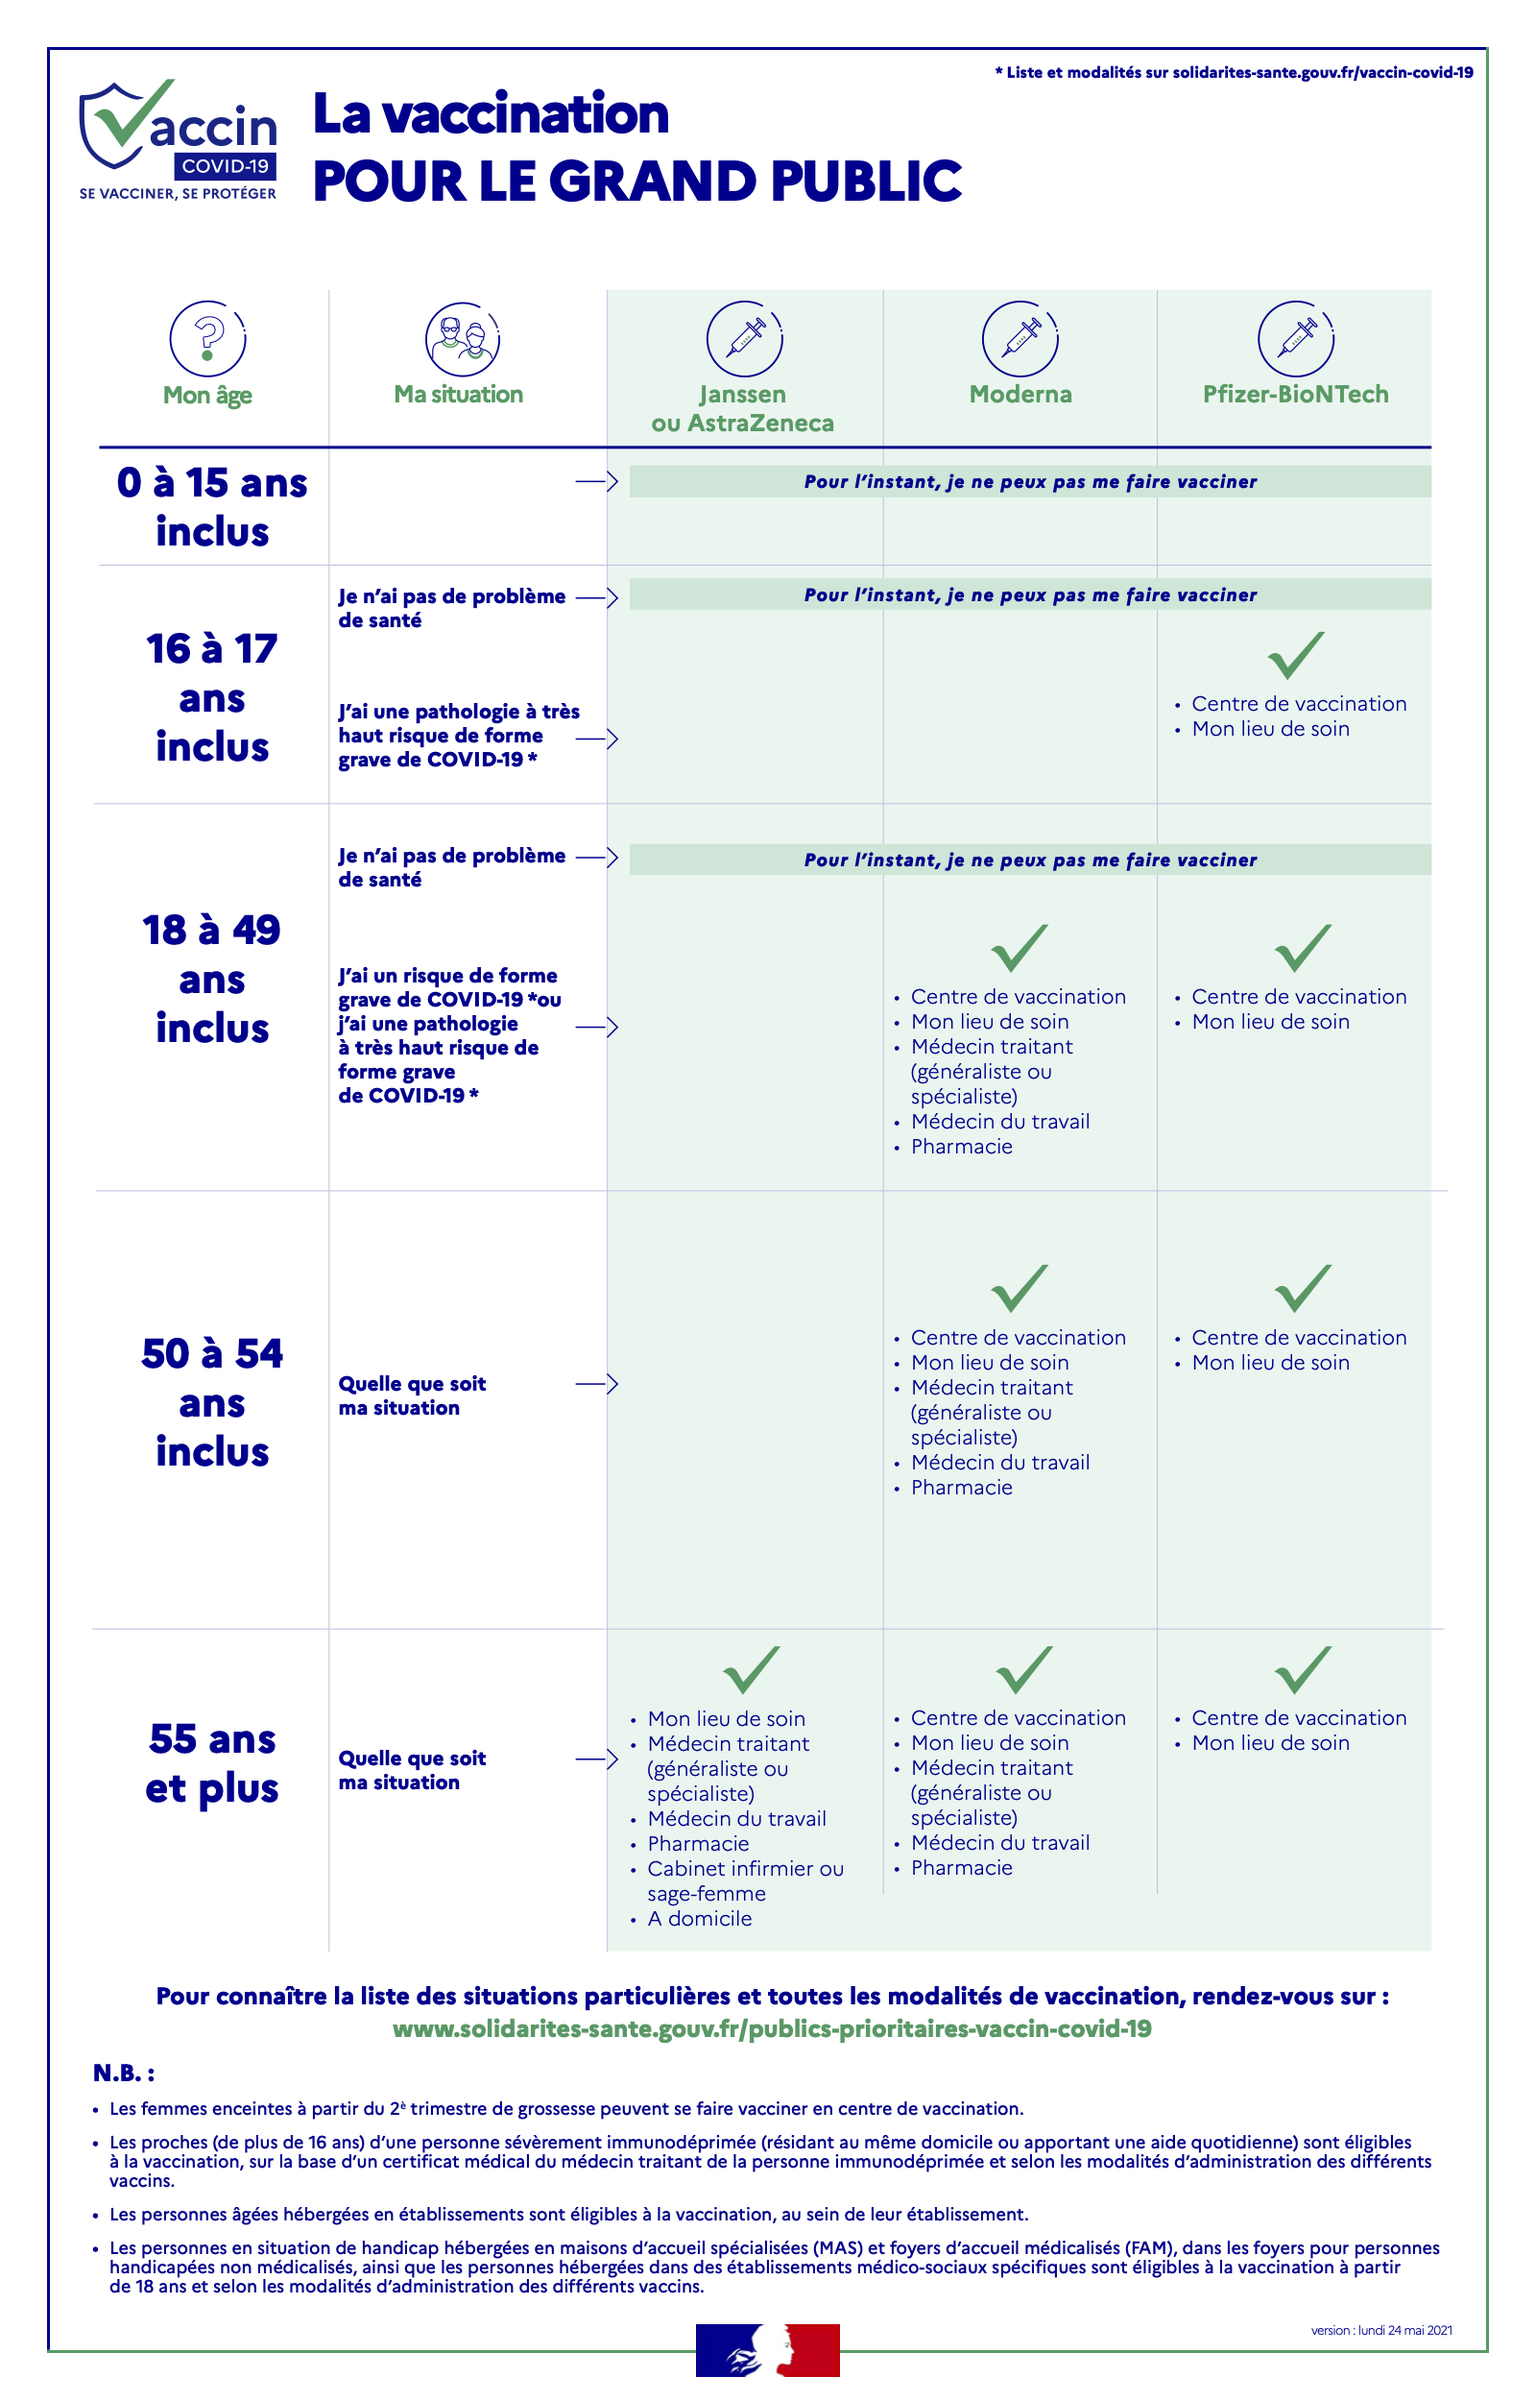
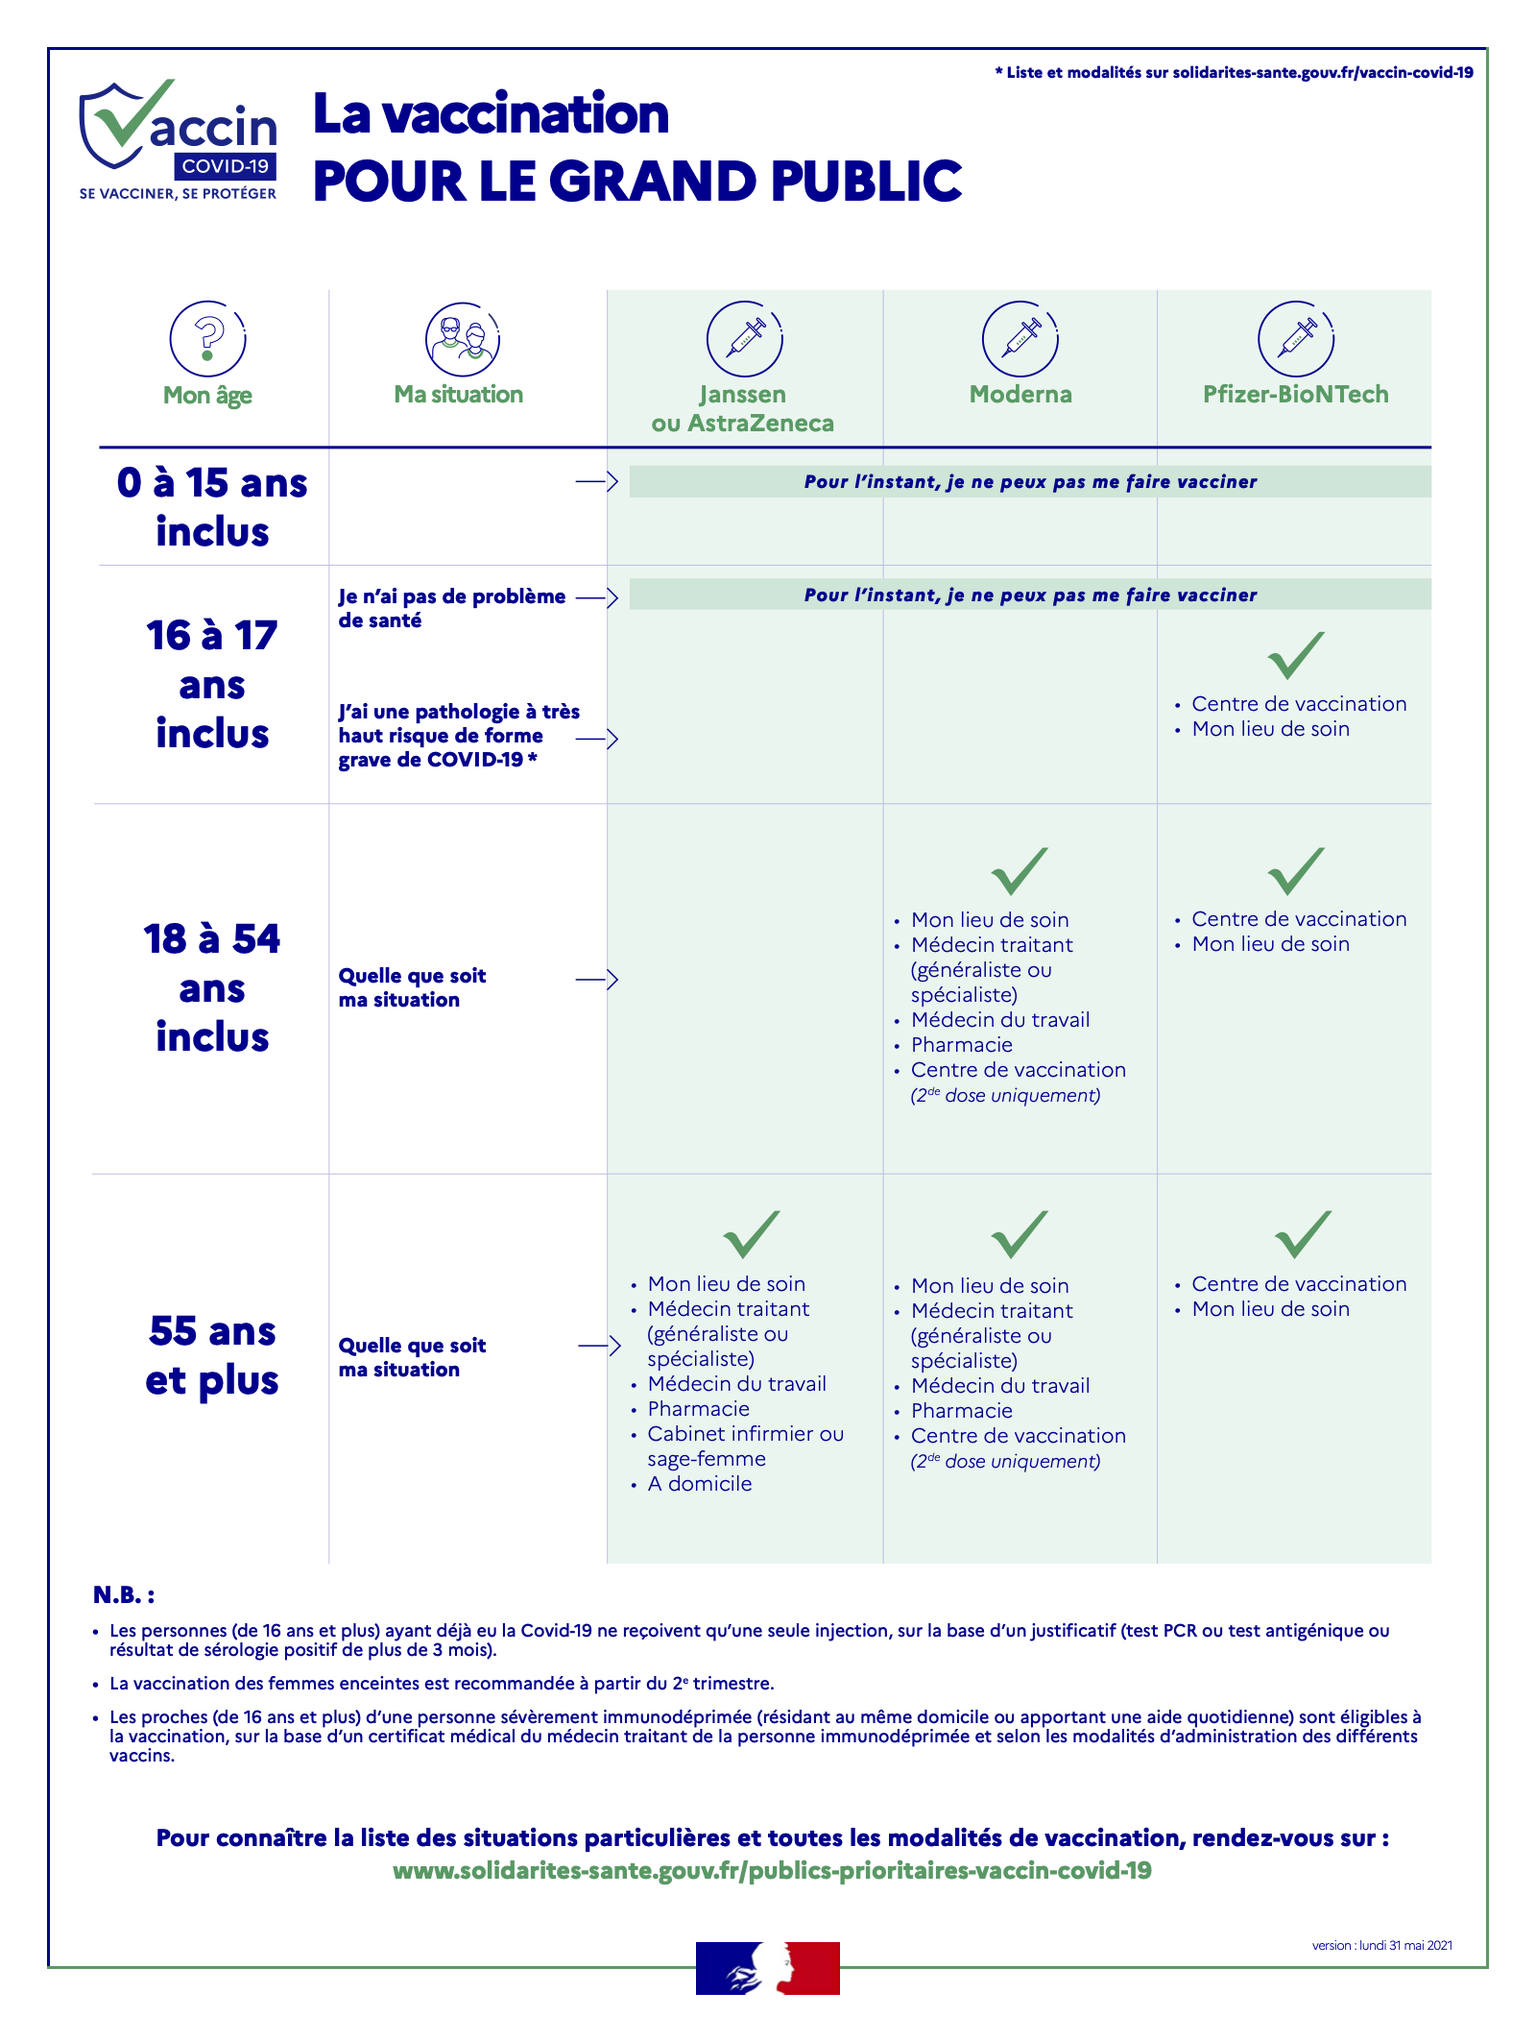
Mise à jour des conseils vaccination grand public

diff --git a/contenus/thematiques/README.md b/contenus/thematiques/README.md
@@ -214,17 +214,11 @@ Nous vous conseillons de vérifier directement auprès des autorités du pays de
 <div itemscope itemprop="acceptedAnswer" itemtype="https://schema.org/Answer">
 <div itemprop="text">
 
-Vous pouvez vous faire vacciner <mark>dès maintenant</mark> :
-   * si vous avez **50 ans ou plus** ;
-   * si vous avez **18 ans ou plus** et que vous êtes **en surcharge pondérale** (IMC > 30), ou que vous avez [un risque](https://solidarites-sante.gouv.fr/grands-dossiers/vaccin-covid-19/publics-prioritaires-vaccin-covid-19#liste-comor) de développer une **forme grave** de Covid (diabète, cancer, etc.) ;
-   * si vous avez **16 ou 17 ans** et que vous avez un risque de développer une **forme très grave** de Covid (cancer, dialyse, trisomie 21, etc.) ;
-   * si vous êtes au **second trimestre** de votre grossesse ;
-   * si vous vivez auprès d’une personne **sévèrement immunodéprimée**.
+Vous pouvez vous faire vacciner **dès maintenant** :
 
-Sinon, si vous avez **18 ans ou plus**, et que vous n’avez **pas de risque de forme grave** :
-
-  * vous pourrez vous faire vacciner <mark>à partir du **31 mai**</mark> ;
-  * vous pouvez aussi prendre rendez-vous **de la veille pour le lendemain**, lorsqu’il reste des <mark>créneaux de **dernière minute**</mark>, mais vous ne serez pas prioritaire.
+* si vous avez **18 ans et plus**, sans conditions ;
+* si vous avez entre **16 et 17 ans** et présentez un risque de développer une **forme très grave** de Covid (cancer, dialyse, trisomie 21, etc.) ;
+* si vous êtes au **second trimestre** de votre grossesse.
 
 </div>
 </div>

diff --git a/contenus/conseils/README.md b/contenus/conseils/README.md
@@ -947,17 +947,11 @@ Trouvez les <a href="#conseils-vaccins" class="lien-vaccination">lieux de vaccin
 
 #### Quand se faire vacciner ?
 
-Le déploiement de la vaccination se fait en plusieurs phases :
+Vous pouvez vous faire vacciner **dès maintenant** :
 
-* <mark>dès maintenant</mark> :
-   * les personnes de **50 ans et plus** ;
-   * les personnes de **18 ans et plus** qui sont **en surcharge pondérale** (IMC > 30), ou qui ont [un risque](https://solidarites-sante.gouv.fr/grands-dossiers/vaccin-covid-19/publics-prioritaires-vaccin-covid-19#liste-comor) de développer une **forme grave** de Covid (diabète, cancer, etc.) ;
-   * les personnes de **16 et 17 ans** présentant un risque de développer une **forme très grave** de Covid (cancer, dialyse, trisomie 21, etc.) ;
-   * les personnes au **second trimestre** de leur grossesse ;
-   * les personnes qui vivent auprès d’une personne **sévèrement immunodéprimée.
-* <mark>à partir du **31 mai**</mark> : toutes les personnes de **18 ans et plus**.
-
-<span class="nouveau">nouveau</span> <mark>Créneaux de **dernière minute**</mark> : les personnes de 18 ans et plus, ne présentant pas de risque de forme grave, peuvent prendre rendez-vous **de la veille pour le lendemain**. Ils ne sont pas prioritaires.
+* si vous avez **18 ans et plus**, sans conditions ;
+* si vous avez entre **16 et 17 ans** et présentez un risque de développer une **forme très grave** de Covid (cancer, dialyse, trisomie 21, etc.) ;
+* si vous êtes au **second trimestre** de votre grossesse.
 
 Pour en savoir plus :
 

diff --git a/contenus/thematiques/je-veux-me-faire-vacciner.md b/contenus/thematiques/je-veux-me-faire-vacciner.md
@@ -15,17 +15,11 @@
 <div itemscope itemprop="acceptedAnswer" itemtype="https://schema.org/Answer">
 <div itemprop="text">
 
-Vous pouvez vous faire vacciner <mark>dès maintenant</mark> :
-   * si vous avez **50 ans ou plus** ;
-   * si vous avez **18 ans ou plus** et que vous êtes **en surcharge pondérale** (IMC > 30), ou que vous avez [un risque](https://solidarites-sante.gouv.fr/grands-dossiers/vaccin-covid-19/publics-prioritaires-vaccin-covid-19#liste-comor) de développer une **forme grave** de Covid (diabète, cancer, etc.) ;
-   * si vous avez **16 ou 17 ans** et que vous avez un risque de développer une **forme très grave** de Covid (cancer, dialyse, trisomie 21, etc.) ;
-   * si vous êtes au **second trimestre** de votre grossesse ;
-   * si vous vivez auprès d’une personne **sévèrement immunodéprimée**.
+Vous pouvez vous faire vacciner **dès maintenant** :
 
-Sinon, si vous avez **18 ans ou plus**, et que vous n’avez **pas de risque de forme grave** :
-
-  * vous pourrez vous faire vacciner <mark>à partir du **31 mai**</mark> ;
-  * vous pouvez aussi prendre rendez-vous **de la veille pour le lendemain**, lorsqu’il reste des <mark>créneaux de **dernière minute**</mark>, mais vous ne serez pas prioritaire.
+* si vous avez **18 ans et plus**, sans conditions ;
+* si vous avez entre **16 et 17 ans** et présentez un risque de développer une **forme très grave** de Covid (cancer, dialyse, trisomie 21, etc.) ;
+* si vous êtes au **second trimestre** de votre grossesse.
 
 </div>
 </div>

diff --git a/contenus/conseils/conseils_vaccins_pas_encore_vaccine.md b/contenus/conseils/conseils_vaccins_pas_encore_vaccine.md
@@ -13,12 +13,11 @@ Trouvez les <a href="#conseils-vaccins" class="lien-vaccination">lieux de vaccin
 
 #### Quand se faire vacciner ?
 
-Le déploiement de la vaccination se fait en plusieurs phases :
+Vous pouvez vous faire vacciner **dès maintenant** :
 
-* <mark>dès maintenant</mark> :
-   * les personnes de **18 ans et plus** sans conditions.
-   * les personnes de **16 et 17 ans** présentant un risque de développer une **forme très grave** de Covid (cancer, dialyse, trisomie 21, etc.) ;
-   * les personnes au **second trimestre** de leur grossesse ;
+* si vous avez **18 ans et plus**, sans conditions ;
+* si vous avez entre **16 et 17 ans** et présentez un risque de développer une **forme très grave** de Covid (cancer, dialyse, trisomie 21, etc.) ;
+* si vous êtes au **second trimestre** de votre grossesse.
 
 Pour en savoir plus :
 
